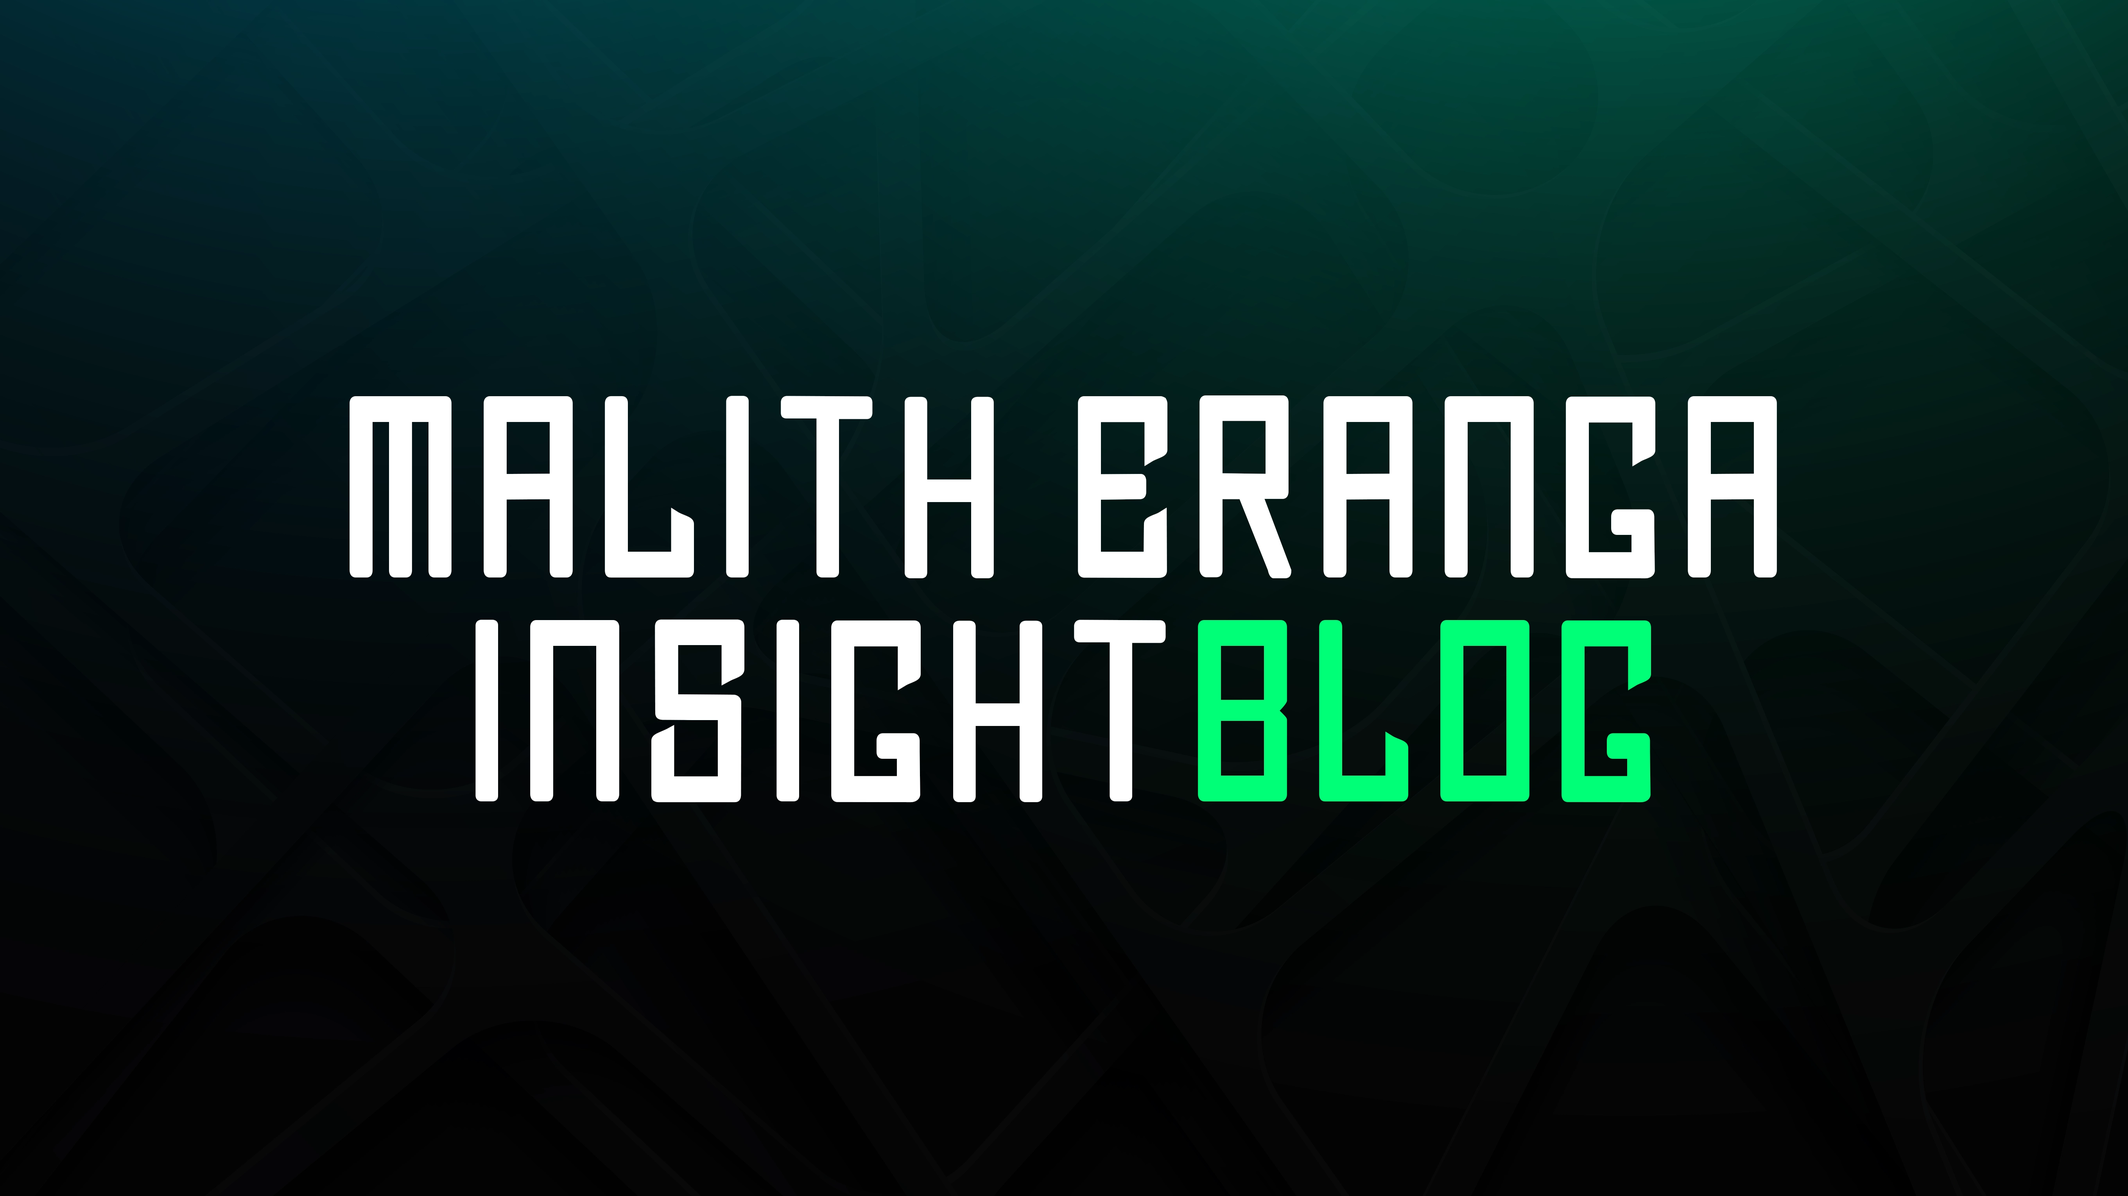
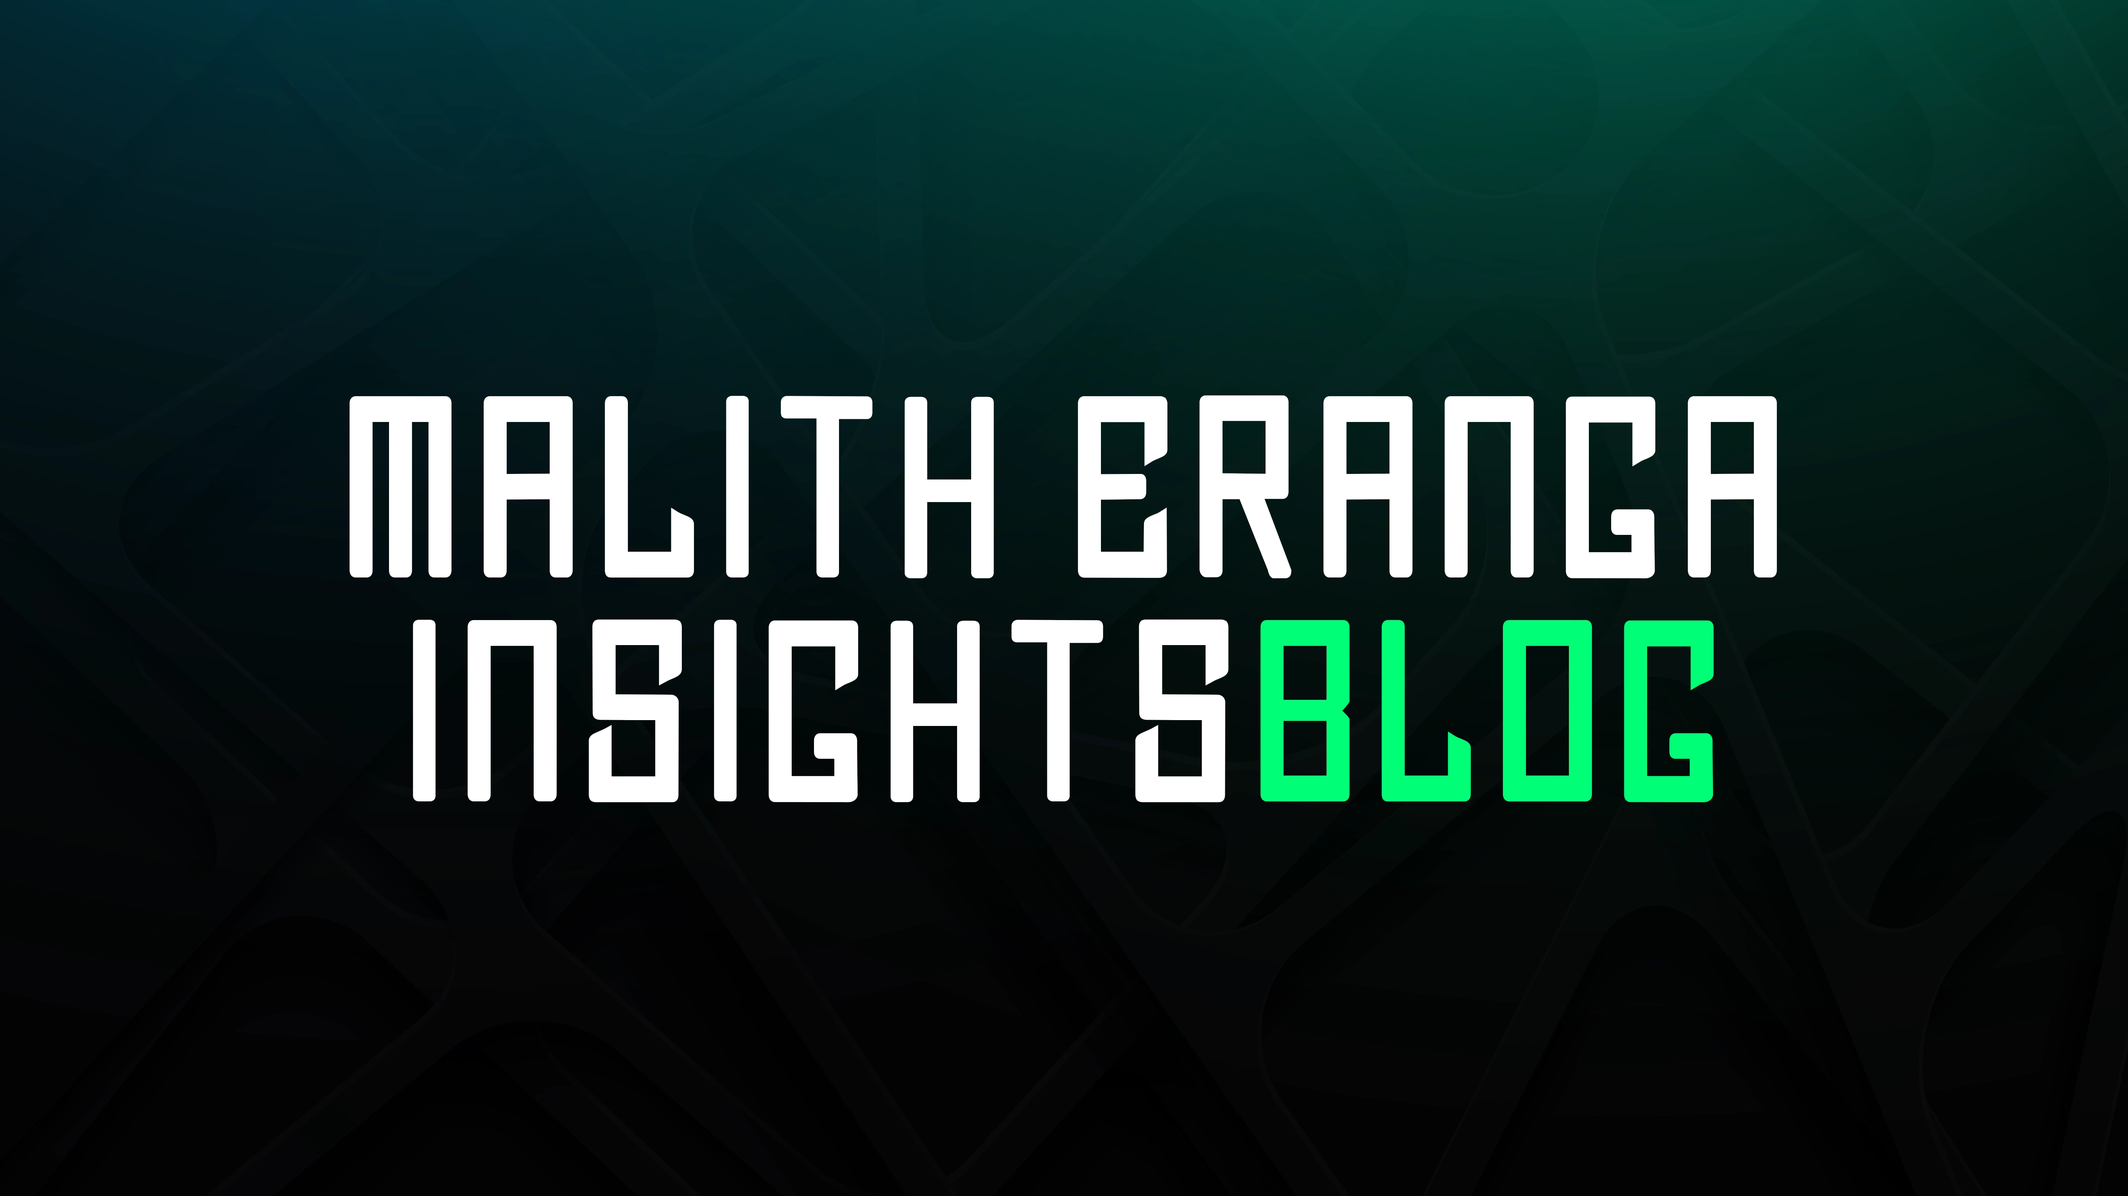
1

Changed region(s): [[0.1874, 0.4966, 0.8121, 0.6828]]

diff --git a/Article.html b/Article.html
@@ -258,7 +258,7 @@
              Series නම වෙනස් කරන්න ඕනේ නම්: openCategory('ඔයාගේ_නම', '#ඔයාගේ_පාට') වෙනස් කරන්න.
         ========================================================================== -->
         <div id="view-categories" class="view-section active">
-            <h1 class="page-title">Insight Blog</h1>
+            <h1 class="page-title">Insights Blog</h1>
             <div class="category-grid">
 
                 <!-- CATEGORY 1: ChemAZ -->
@@ -370,6 +370,79 @@
                     <h3>The Road Ahead</h3>
                     <p>Chemistry is the ultimate operating system of the universe. It is the framework that explains how a handful of microscopic building blocks can combine to create the infinite complexity of the world around us.</p>
                     <p>Understanding the absolute basics of chemistry empowers you as a citizen and a consumer. It allows you to understand the ingredients in your food, the mechanisms of climate change, and the science behind the technology you use daily. It strips away the illusion of magic and replaces it with a profound appreciation for the interconnected, logical, and deeply fascinating mechanics of reality.</p>
+                    <p style="margin-top: 20px; color: var(--accent);"><em>— Article by Malith Eranga</em></p>
+                `
+            },
+
+            {
+                id: 2, 
+                category: 'ChemAZ', 
+                title: 'Atoms and Molecules - The Microscopic Building Blocks of Reality',
+                date: 'October 15, 2026', 
+                image: 'Article/A2.png',
+                excerpt: 'Dive deep into the subatomic world. Explore protons, neutrons, electrons, and the miraculous emergent properties that occur when atoms bond to form molecules.',
+                content: `
+                    <p>Imagine, for a moment, taking a standard block of pure gold and a very sharp knife. You cut the block of gold in half. You then take one of those halves and cut it in half again. You repeat this process over and over. Eventually, the piece of gold becomes so small that you need a magnifying glass to see it, and then a high-powered microscope. If you had a theoretical knife sharp enough and infinitely steady hands, would you eventually reach a point where the piece of gold can no longer be cut? Or does matter simply divide infinitely forever?</p>
+                    <p>This is not a modern question. It is a thought experiment that was first posed by the ancient Greek philosopher Democritus over 2,400 years ago in the 5th century BCE. Democritus reasoned that matter could not be divided infinitely. He proposed that if you kept cutting, you would eventually reach an ultimate, indivisible particle. He called this particle "atomos," a Greek word that translates directly to "uncuttable" or "indivisible."</p>
+                    <p>Though Democritus had no scientific equipment and his ideas were purely philosophical, his logic laid the foundation for the most important concept in all of modern physical science. In Part 001 of the ChemAZ Series, we established that Chemistry is the study of Matter. Today, we are zooming in to explore the very foundation of that matter. We are going to explore atoms, the subatomic particles that build them, and the molecules they form when they join together.</p>
+                    
+                    <h3>The 2,400-Year Journey: A Brief History of Atomic Theory</h3>
+                    <p>For over two millennia, Democritus's idea of the atom was largely ignored. Prominent philosophers like Aristotle believed that matter was made of four continuous elements - earth, water, air, and fire - and that empty space could not exist. Because Aristotle was so highly respected, the idea of the atom was buried until the scientific revolution.</p>
+                    
+                    <p><strong>John Dalton and the Solid Sphere:</strong> The atomic theory was formally resurrected in 1803 by an English chemist and meteorologist named John Dalton. Through careful experiments with gases and weights, Dalton proposed the first modern atomic theory. He stated that all matter is composed of tiny, indivisible atoms, and that all atoms of a specific element are completely identical in mass and properties. He envisioned atoms as solid, hard spheres, much like microscopic billiard balls.</p>
+                    
+                    <p><strong>J.J. Thomson and the Plum Pudding Model:</strong> Dalton's "solid sphere" idea held strong until 1897 when a physicist named J.J. Thomson made a groundbreaking discovery. Using a piece of equipment called a cathode ray tube, Thomson discovered the electron - a tiny, negatively charged particle that was much smaller than a hydrogen atom. This proved that atoms were not indivisible solid spheres; they had smaller pieces inside them. Thomson proposed the "Plum Pudding Model," suggesting that an atom was a positively charged soup with negatively charged electrons scattered throughout it, much like raisins in a pudding.</p>
+                    
+                    <p><strong>Ernest Rutherford and the Empty Space:</strong> In 1911, Ernest Rutherford, a former student of Thomson, conducted one of the most famous experiments in scientific history: the Gold Foil Experiment. Rutherford fired positively charged alpha particles at an incredibly thin sheet of gold foil. If Thomson's Plum Pudding model was correct, the particles should have passed right through the soft, positively charged soup. Instead, while most particles went straight through, a few bounced directly back. Rutherford concluded that the atom is overwhelmingly empty space, but it contains a tiny, incredibly dense, positively charged center. He discovered the atomic nucleus.</p>
+                    
+                    <p><strong>Niels Bohr and the Planetary Model:</strong> In 1913, Niels Bohr refined Rutherford's model by focusing on the electrons. He proposed that electrons do not just float randomly around the nucleus; they travel in fixed, circular orbits, much like planets orbiting the sun. Furthermore, Bohr theorized that electrons could jump from one orbit to another by absorbing or releasing specific amounts of energy, known as quanta.</p>
+                    
+                    <p><strong>The Quantum Mechanical Model:</strong> Today, our understanding has evolved even further into the Quantum Mechanical Model. Pioneered by scientists like Erwin Schrodinger and Werner Heisenberg in the 1920s, we now know that electrons do not orbit the nucleus in perfect circles. Instead, they exist in "electron clouds" or orbitals - regions of space around the nucleus where an electron is most likely to be found. The exact position and momentum of an electron cannot be known simultaneously, a concept known as the Heisenberg Uncertainty Principle.</p>
+                    
+                    <h3>Inside the Atom: The Big Three</h3>
+                    <p>Through these centuries of incredible scientific discovery, we now have a clear picture of what an atom looks like. Despite the massive complexity of the universe, everything from the screen you are reading this on, to the coffee in your cup, to the stars in the distant galaxies, is made of just three fundamental subatomic particles: protons, neutrons, and electrons.</p>
+                    
+                    <ul>
+                        <li><strong>1. Protons: The Identity Particle:</strong> Protons are positively charged particles located in the dense center of the atom, known as the nucleus. The proton is incredibly important because it acts as the atom's identity card. The number of protons an atom has is called its Atomic Number, and this number absolutely dictates what element the atom is. If you have an atom with exactly one proton in its nucleus, it is Hydrogen. It does not matter what else is going on with that atom; if it has one proton, it is Hydrogen. If you force a second proton into that nucleus, it is no longer Hydrogen; it becomes Helium. An atom with 6 protons is always Carbon, an atom with 26 protons is always Iron, and an atom with 79 protons is always Gold.</li>
+                        
+                        <li><strong>2. Neutrons: The Stabilizers:</strong> Neutrons are particles that have no electrical charge (they are neutral), and they share the nucleus with the protons. Protons have a positive charge, and in physics, like charges repel each other violently. If a nucleus was made only of protons, the repelling force would blow the atom apart instantly. Neutrons act as the necessary buffer or "glue." They provide a strong nuclear force that overcomes the electrical repulsion of the protons, keeping the nucleus stable. Interestingly, while the number of protons must remain fixed for an element to keep its identity, the number of neutrons can vary. Atoms of the same element that have different numbers of neutrons are called "Isotopes." For example, most Carbon atoms have 6 protons and 6 neutrons (Carbon-12). But a small percentage of Carbon atoms in the universe have 6 protons and 8 neutrons (Carbon-14). Carbon-14 is slightly unstable and radioactive. Scientists use the predictable decay of Carbon-14 to date ancient artifacts and dinosaur bones, a process known as radiocarbon dating. Isotopes are also heavily used in modern medicine, particularly in targeted radiation therapy to destroy cancer cells and in medical imaging devices like PET scans.</li>
+                        
+                        <li><strong>3. Electrons: The Interactors:</strong> Electrons are tiny, negatively charged particles that zip around the nucleus at near the speed of light in the electron cloud. To understand just how small electrons are, if a proton weighed as much as a bowling ball, an electron would weigh about as much as a small coin. Because the nucleus is so small and the electrons orbit so far away, atoms are overwhelmingly empty space - roughly 99.9999999 percent empty space. If you were to enlarge an atom so that its nucleus was the size of a marble sitting on the 50-yard line of a massive football stadium, the electrons would be like tiny gnats buzzing around the very top rows of the bleachers. Everything in between is just empty space. Electrons are the most dynamic part of the atom. The electrons in the outermost shell of the atom, known as "valence electrons," are responsible for all chemical reactions. When atoms interact, their nuclei never touch. It is their electron clouds that brush against each other, trade places, and lock together.</li>
+                    </ul>
+                    
+                    <h3>Beyond the Basics: The Quantum Realm</h3>
+                    <p>It is worth noting that while protons, neutrons, and electrons are the building blocks of atoms, they are not all the end of the line. In the 1960s, particle physicists discovered that protons and neutrons are actually made of even smaller, truly fundamental particles called "quarks." A proton is made of two "up" quarks and one "down" quark, while a neutron is made of one "up" quark and two "down" quarks. Electrons, however, belong to a class of particles called "leptons" and are currently believed to be truly indivisible. This takes us into the realm of Quantum Physics and the Standard Model, a fascinating topic that highlights just how deep the rabbit hole of reality goes.</p>
+                    
+                    <h3>From Atoms to Molecules: The Magic of Bonding</h3>
+                    <p>An atom on its own is a marvel of nature, but the universe would be incredibly boring if atoms never interacted. The vast complexity of our world - rocks, trees, water, plastic, DNA, and human beings - exists because atoms have a desperate desire to bond together.</p>
+                    <p>Why do atoms bond? It all comes down to stability. Atoms are most stable when their outermost electron shell is completely full. Most elements (except for the noble gases like Helium and Neon, which are already full) have incomplete outer shells. To fix this, atoms will constantly seek out other atoms to steal electrons from, give electrons to, or share electrons with.</p>
+                    <p>When two or more atoms bond together, they form a "Molecule." If the atoms being bonded are of different elements, we call the resulting molecule a "Compound."</p>
+                    
+                    <h3>The Three Main Types of Chemical Bonds</h3>
+                    <p>Depending on the types of atoms involved and how badly they want electrons (a property known as electronegativity), atoms will form different types of bonds:</p>
+                    <ul>
+                        <li><strong>Covalent Bonds (The Sharers):</strong> Covalent bonds happen when two atoms have similar electronegativity - neither atom is strong enough to completely steal an electron from the other. So, they agree to share. They physically overlap their electron clouds, and the shared electrons orbit both nuclei, locking the atoms together. Water (H2O) is held together by covalent bonds. The oxygen atom shares electrons with two hydrogen atoms. Carbon is the ultimate sharer, capable of forming four covalent bonds simultaneously, which is why it is the backbone of all life on Earth.</li>
+                        <li><strong>Ionic Bonds (The Takers and Givers):</strong> Ionic bonding happens when one atom is much stronger than the other. Instead of sharing, the strong atom completely rips an electron away from the weak atom. Because electrons are negatively charged, the atom that steals the electron becomes negatively charged, and the atom that lost the electron becomes positively charged. Just like magnets, the positive and negative atoms (now called ions) are powerfully attracted to each other and lock together. Table salt (Sodium Chloride) is the classic example of an ionic bond.</li>
+                        <li><strong>Metallic Bonds (The Sea of Electrons):</strong> When metal atoms bond together, they do something entirely unique. They essentially pool all their outer electrons together into a massive, fluid "sea" of electrons that flows freely around a rigid grid of positive nuclei. Because these electrons can move anywhere within the metal, metals are highly conductive to electricity and heat. This is why copper wires are used in your home electronics - the electrons can flow effortlessly through the metallic bonds.</li>
+                    </ul>
+                    
+                    <h3>Emergent Properties: Why Molecules are Miraculous</h3>
+                    <p>The most fascinating concept in all of chemistry is the idea of "emergent properties." When atoms bond to form a molecule, the physical and chemical properties of the new molecule are completely different from the properties of the individual atoms that made it.</p>
+                    <p>Let us look at Water (H2O) again. It is made of Hydrogen and Oxygen. Hydrogen is an incredibly explosive gas - it is what fueled the Hindenburg blimp disaster. Oxygen is a highly flammable gas that fuels fires. Yet, when you covalently bond two explosive gases together, you get liquid water. Not only is water a liquid at room temperature, but it is also the very substance we use to put out fires. The molecule has emergent properties that could never be predicted just by looking at the isolated atoms.</p>
+                    <p>Another famous example is table salt (NaCl). Sodium is a soft, highly reactive metal that will violently explode and catch fire if it touches water. Chlorine is a heavy, green, highly toxic gas that was used as a chemical weapon in World War I. If you consumed pure Sodium or pure Chlorine, it would be fatal. But when they form an ionic bond, they create Sodium Chloride - ordinary table salt. It does not explode in water, it is not a toxic gas, and in fact, your nervous system requires it to function properly.</p>
+                    <p>This is the profound beauty of chemistry. The universe is playing with a limited box of Lego bricks (the elements), but by clicking them together in different ways, it can create an infinite variety of structures with wildly different behaviors.</p>
+                    
+                    <h3>Macromolecules: The Architecture of Life and Technology</h3>
+                    <p>While molecules like water and salt are small and simple, atoms can continue bonding in long chains to create massive, incredibly complex structures known as macromolecules.</p>
+                    <p>Your entire body is built from biological macromolecules. DNA (Deoxyribonucleic acid) is a single, gigantic molecule made of millions of smaller atoms bonded together in a double helix. This single molecule contains the complex chemical code required to build a human being. Proteins, which act as the microscopic machines running your cells, are macromolecules made of thousands of carbon, hydrogen, oxygen, and nitrogen atoms folded into intricate 3D shapes.</p>
+                    <p>In the modern world, synthetic macromolecules have completely revolutionized human technology. By understanding how carbon atoms bond in long chains, chemists have created synthetic polymers. Every piece of plastic, synthetic rubber, nylon, polyester clothing, and Teflon-coated frying pan is a result of humans learning how to manually manipulate atomic bonds to create massive molecules that do not exist in nature.</p>
+                    
+                    <h3>Conclusion: We Are Made of Stardust</h3>
+                    <p>Understanding atoms and molecules completely shifts how you view reality. When you look at your hand, you are not just looking at skin and bone. You are looking at a complex, highly organized collection of billions of trillions of atoms.</p>
+                    <p>Even more profoundly, physics tells us that the atoms in your body were not created on Earth. The Hydrogen in your body was formed 13.8 billion years ago during the Big Bang. The Carbon in your cells, the Iron in your blood, and the Calcium in your bones were forged in the incredibly hot, high-pressure cores of ancient, dying stars that exploded into supernovas billions of years ago, scattering their atomic contents across the galaxy.</p>
+                    <p>As the famous astrophysicist Carl Sagan once said, "We are made of star-stuff." Chemistry is simply the study of how that star-stuff arranges itself to create the magnificent, complex, and beautiful universe we experience every single day.</p>
+                    <p>In the next installment of the ChemAZ Series, we will explore the ultimate map of this star-stuff: The Periodic Table of Elements. We will learn how to read it, why its shape is so unique, and how it serves as the ultimate cheat sheet for the entire physical universe.</p>
+                    
                     <p style="margin-top: 20px; color: var(--accent);"><em>— Article by Malith Eranga</em></p>
                 `
             },
